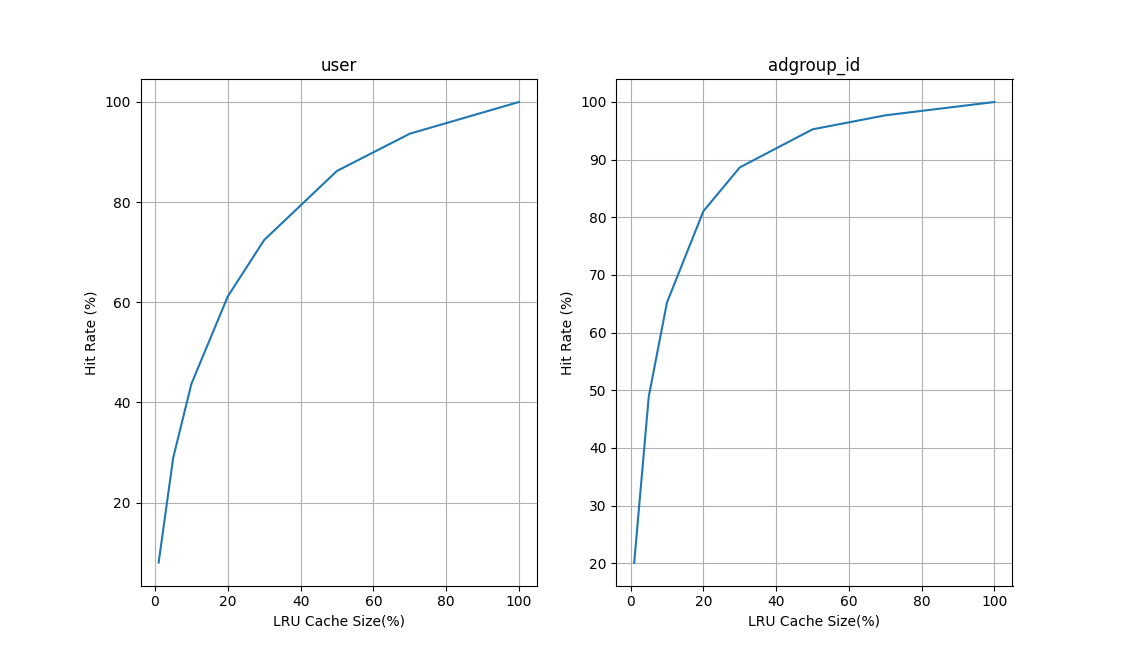
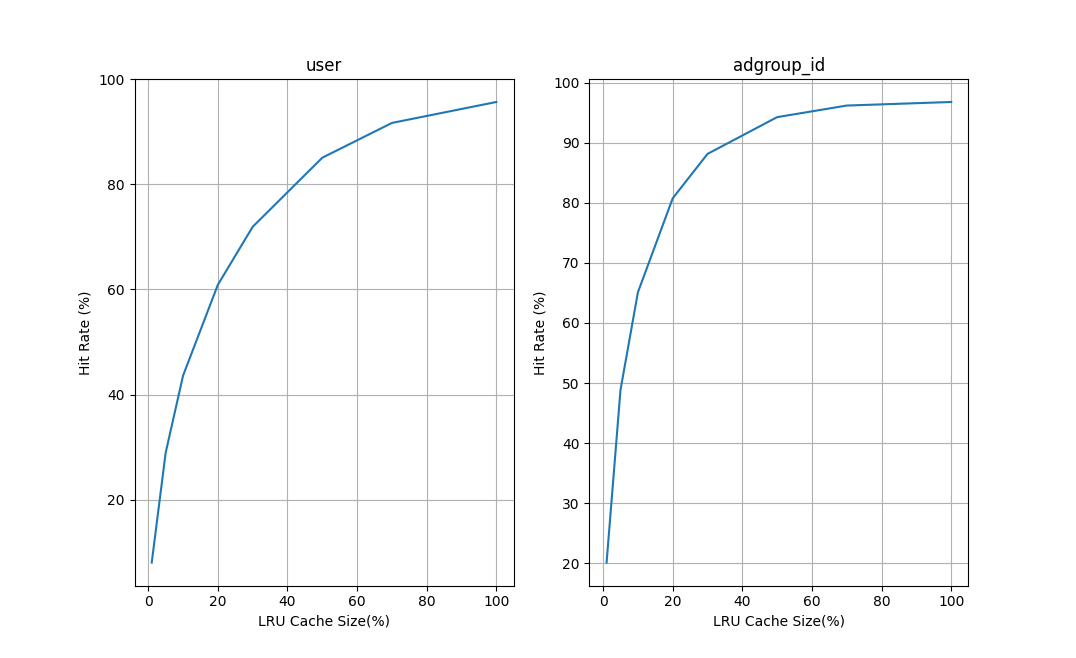
feat: Update fig

diff --git a/test_init/cmp_lfu_lru_plot.py b/test_init/cmp_lfu_lru_plot.py
@@ -18,22 +18,20 @@ a_result_lfu = [
 ]
 
 u_result_lru = [
-    [7.99985, 28.9187, 43.6927, 61.157, 72.4288, 86.2242, 93.6659, 100],
-    [7.99983, 28.9223, 43.6926, 61.1669, 72.4383, 86.2248, 93.6606, 100],
-    [7.99867, 28.9174, 43.6895, 61.1708, 72.4364, 86.2309, 93.6696, 100],
-    [8.00056, 28.9269, 43.6925, 61.1595, 72.4363, 86.2292, 93.6587, 100],
-    [7.99964, 28.9264, 43.6869, 61.1704, 72.4436, 86.2316, 93.6613, 100],
-    [7.99677, 28.9128, 43.6888, 61.1556, 72.4278, 86.2234, 93.6606, 100],
+    [8.003991722105473, 28.902817501689984, 43.59804203342267, 60.90771049780516, 71.93986014212462, 85.08940501870606, 91.7139949109798, 95.7009915030751],
+    [7.999108064056574, 28.90027965625825, 43.60070037003217, 60.90220179177159, 71.93060114818303, 85.08874984792695, 91.70762017460602, 95.7009915030751],
+    [7.992337966005748, 28.89309160443454, 43.595666098011066, 60.89404227982713, 71.93160273109822, 85.08671279395281, 91.70844102075456, 95.7009915030751],
+    [7.993102331914713, 28.893358944235214, 43.59696514352137, 60.88485482752234, 71.92157560589835, 85.08989827946506, 91.70783479951642, 95.7009915030751],
+    [8.004044436995747, 28.900851989352645, 43.60188268971402, 60.902054943148684, 71.93590276000481, 85.09484971380145, 91.71376899002149, 95.7009915030751],
 ]
 
 
 a_result_lru = [
-    [20.09, 48.9124, 65.2088, 81.0437, 88.6488, 95.2525, 97.6852, 100],
-    [20.0971, 48.9118, 65.2206, 81.0412, 88.6403, 95.2569, 97.6879, 100],
-    [20.1036, 48.9074, 65.2075, 81.0423, 88.6498, 95.2578, 97.687, 100],
-    [20.1025, 48.8989, 65.2182, 81.0491, 88.6483, 95.2511, 97.6853, 100],
-    [20.0995, 48.9255, 65.2224, 81.0434, 88.6495, 95.2574, 97.6852, 100],
-    [20.0979, 48.9093, 65.2215, 81.0467, 88.6445, 95.2498, 97.6853, 100],
+    [20.094965121757653, 48.85595697651638, 65.11339481219963, 80.77834363865509, 88.16598156763617, 94.28962938834047, 96.21897931094936, 96.81146078947853],
+    [20.083164517035023, 48.874693354659264, 65.11239322928444, 80.77240944815003, 88.16029965553454, 94.28772035624272, 96.22027459111037, 96.81146078947853],
+    [20.09264190123632, 48.85762879160791, 65.11040135950196, 80.76603094642695, 88.16293540004821, 94.28789732766006, 96.2187872781348, 96.81146078947853],
+    [20.089991095325427, 48.869915126390914, 65.11426460788914, 80.77710860408297, 88.16395580970995, 94.28689574474487, 96.21982651454304, 96.81146078947853],
+    [20.080099522700557, 48.86891354347572, 65.1031078778977, 80.7666446983637, 88.16409512763424, 94.28624810466437, 96.21769909218558, 96.81146078947853],
 ]
 
 
@@ -66,7 +64,7 @@ def plot_lru_lfu():
     ax1.plot(avg_data_lru[0][0], avg_data_lru[0][1], color="red", label="LRU")
     ax1.plot(avg_data_lfu[0][0], avg_data_lfu[0][1], color="skyblue", label="LFU")
     ax1.set_title("user")
-    ax1.set_xlabel("LFU Cache Size(%)")
+    ax1.set_xlabel("Cache Size(%)")
     ax1.set_ylabel("Hit Rate (%)")
     ax1.grid(True)
     ax1.legend()
@@ -75,7 +73,7 @@ def plot_lru_lfu():
     ax2.plot(avg_data_lru[1][0], avg_data_lru[1][1], color="red", label="LRU")
     ax2.plot(avg_data_lfu[1][0], avg_data_lfu[1][1], color="skyblue", label="LFU")
     ax2.set_title("adgroup_id")
-    ax2.set_xlabel("LFU Cache Size(%)")
+    ax2.set_xlabel("Cache Size(%)")
     ax2.set_ylabel("Hit Rate (%)")
     ax2.grid(True)
     ax2.legend()
@@ -104,18 +102,54 @@ def plot_avg_lfu():
     ax1 = fig2.add_subplot(1, 2, 1)
     ax1.plot(avg_data[0][0], avg_data[0][1])
     ax1.set_title("user")
-    ax1.set_xlabel("Cache Size(%)")
+    ax1.set_xlabel("LFU Cache Size(%)")
     ax1.set_ylabel("Hit Rate (%)")
     ax1.grid(True)
 
     ax2 = fig2.add_subplot(1, 2, 2)
     ax2.plot(avg_data[1][0], avg_data[1][1])
     ax2.set_title("adgroup_id")
-    ax2.set_xlabel("Cache Size(%)")
+    ax2.set_xlabel("LFU Cache Size(%)")
+    ax2.set_ylabel("Hit Rate (%)")
+    ax2.grid(True)
+    plt.show()
+
+
+def plot_avg_lru():
+    import matplotlib.pyplot as plt
+
+    res1 = np.zeros_like(np.array(u_result_lru[0]))
+    res2 = np.zeros_like(np.array(a_result_lru[0]))
+    for i in u_result_lru:
+        res1 += np.array(i)
+    for i in a_result_lru:
+        res2 += np.array(i)
+    avg_data = [
+        (per_points, res1 / len(u_result_lru)),
+        (per_points, res2 / len(a_result_lru)),
+    ]
+
+    # avg_data
+    # [7.9985169, 28.89807994, 43.59865127, 60.89817287, 71.93190848, 85.08992313, 91.71033198, 95.7009915]
+    # [20.08817243, 48.86542156, 65.11071238, 80.77210747, 88.16345351, 94.28767818, 96.21911336, 96.81146079]
+
+    fig2 = plt.figure()
+    ax1 = fig2.add_subplot(1, 2, 1)
+    ax1.plot(avg_data[0][0], avg_data[0][1])
+    ax1.set_title("user")
+    ax1.set_xlabel("LRU Cache Size(%)")
+    ax1.set_ylabel("Hit Rate (%)")
+    ax1.grid(True)
+
+    ax2 = fig2.add_subplot(1, 2, 2)
+    ax2.plot(avg_data[1][0], avg_data[1][1])
+    ax2.set_title("adgroup_id")
+    ax2.set_xlabel("LRU Cache Size(%)")
     ax2.set_ylabel("Hit Rate (%)")
     ax2.grid(True)
     plt.show()
 
 
 # plot_avg_lfu()
-plot_lru_lfu()
+plot_avg_lru()
+# plot_lru_lfu()

diff --git a/test_init/statistics.py b/test_init/statistics.py
@@ -62,10 +62,13 @@ def plot_ratio_lru():
     import matplotlib.pyplot as plt
 
     per_points = [1, 5, 10, 20, 30, 50, 70, 100]
-    user_hit_rate = [7.99922, 28.921, 43.6905, 61.16, 72.4352, 86.227, 93.6628, 100.0]
-    ad_hit_rate = [20.0984, 48.910, 65.2165, 81.0444, 88.64687, 95.25425, 97.686, 100.0]
     user_count = [22.9816, 46.01803, 59.0954, 74.1374, 82.7866, 92.1246, 96.6018, 100.0]
     ad_count = [36.6051, 64.0675, 76.9989, 88.3513, 93.3913, 97.5309, 99.0434, 100.0]
+
+    # ============================================================ LRU (
+    user_hit_rate = [7.9985169, 28.89807994, 43.59865127, 60.89817287, 71.93190848, 85.08992313, 91.71033198, 95.7009915]
+    ad_hit_rate = [20.08817243, 48.86542156, 65.11071238, 80.77210747, 88.16345351, 94.28767818, 96.21911336, 96.81146079]
+    # ============================================================ LRU (
 
     user_hit_div_count = np.array(user_hit_rate) / np.array(user_count)
     ad_hit_div_count = np.array(ad_hit_rate) / np.array(ad_count)
@@ -211,3 +214,4 @@ def plot():
 
 # plot()
 plot_ratio_lfu()
+plot_ratio_lru()
